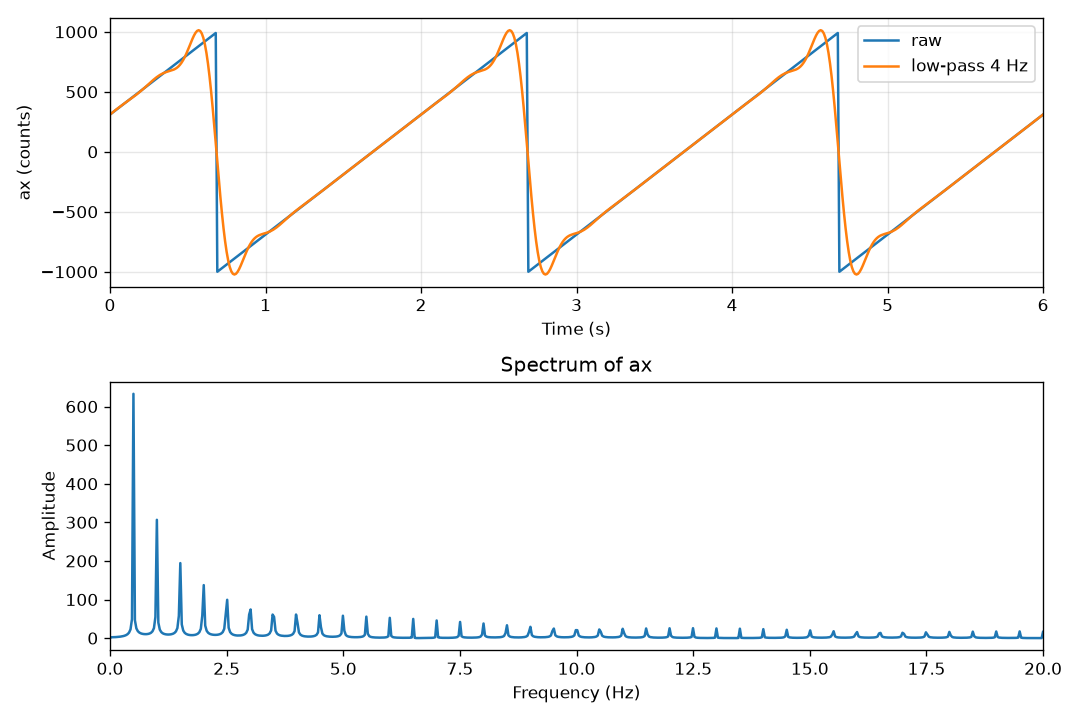
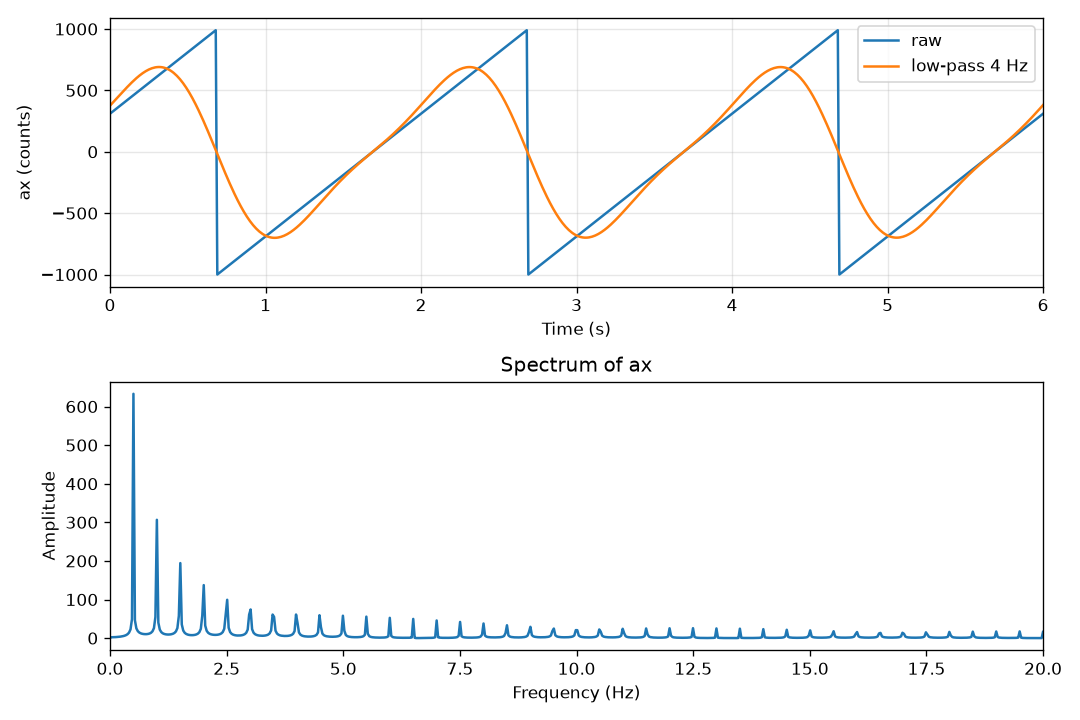
changing the cutoff from 4 to 1 to see changes

diff --git a/data-numerical/06-matplotlib.py b/data-numerical/06-matplotlib.py
@@ -12,7 +12,7 @@ fs = 100.0
 t = (df["timestamp_ms"] - df["timestamp_ms"].iloc[0]).to_numpy() / 1000
 x = df["ax"].to_numpy().astype(float)
 
-sos = signal.butter(4, 4, btype="low", fs=fs, output="sos")
+sos = signal.butter(4, 1, btype="low", fs=fs, output="sos")
 y = signal.sosfiltfilt(sos, x)
 
 freqs = np.fft.rfftfreq(len(x), d=1/fs)
